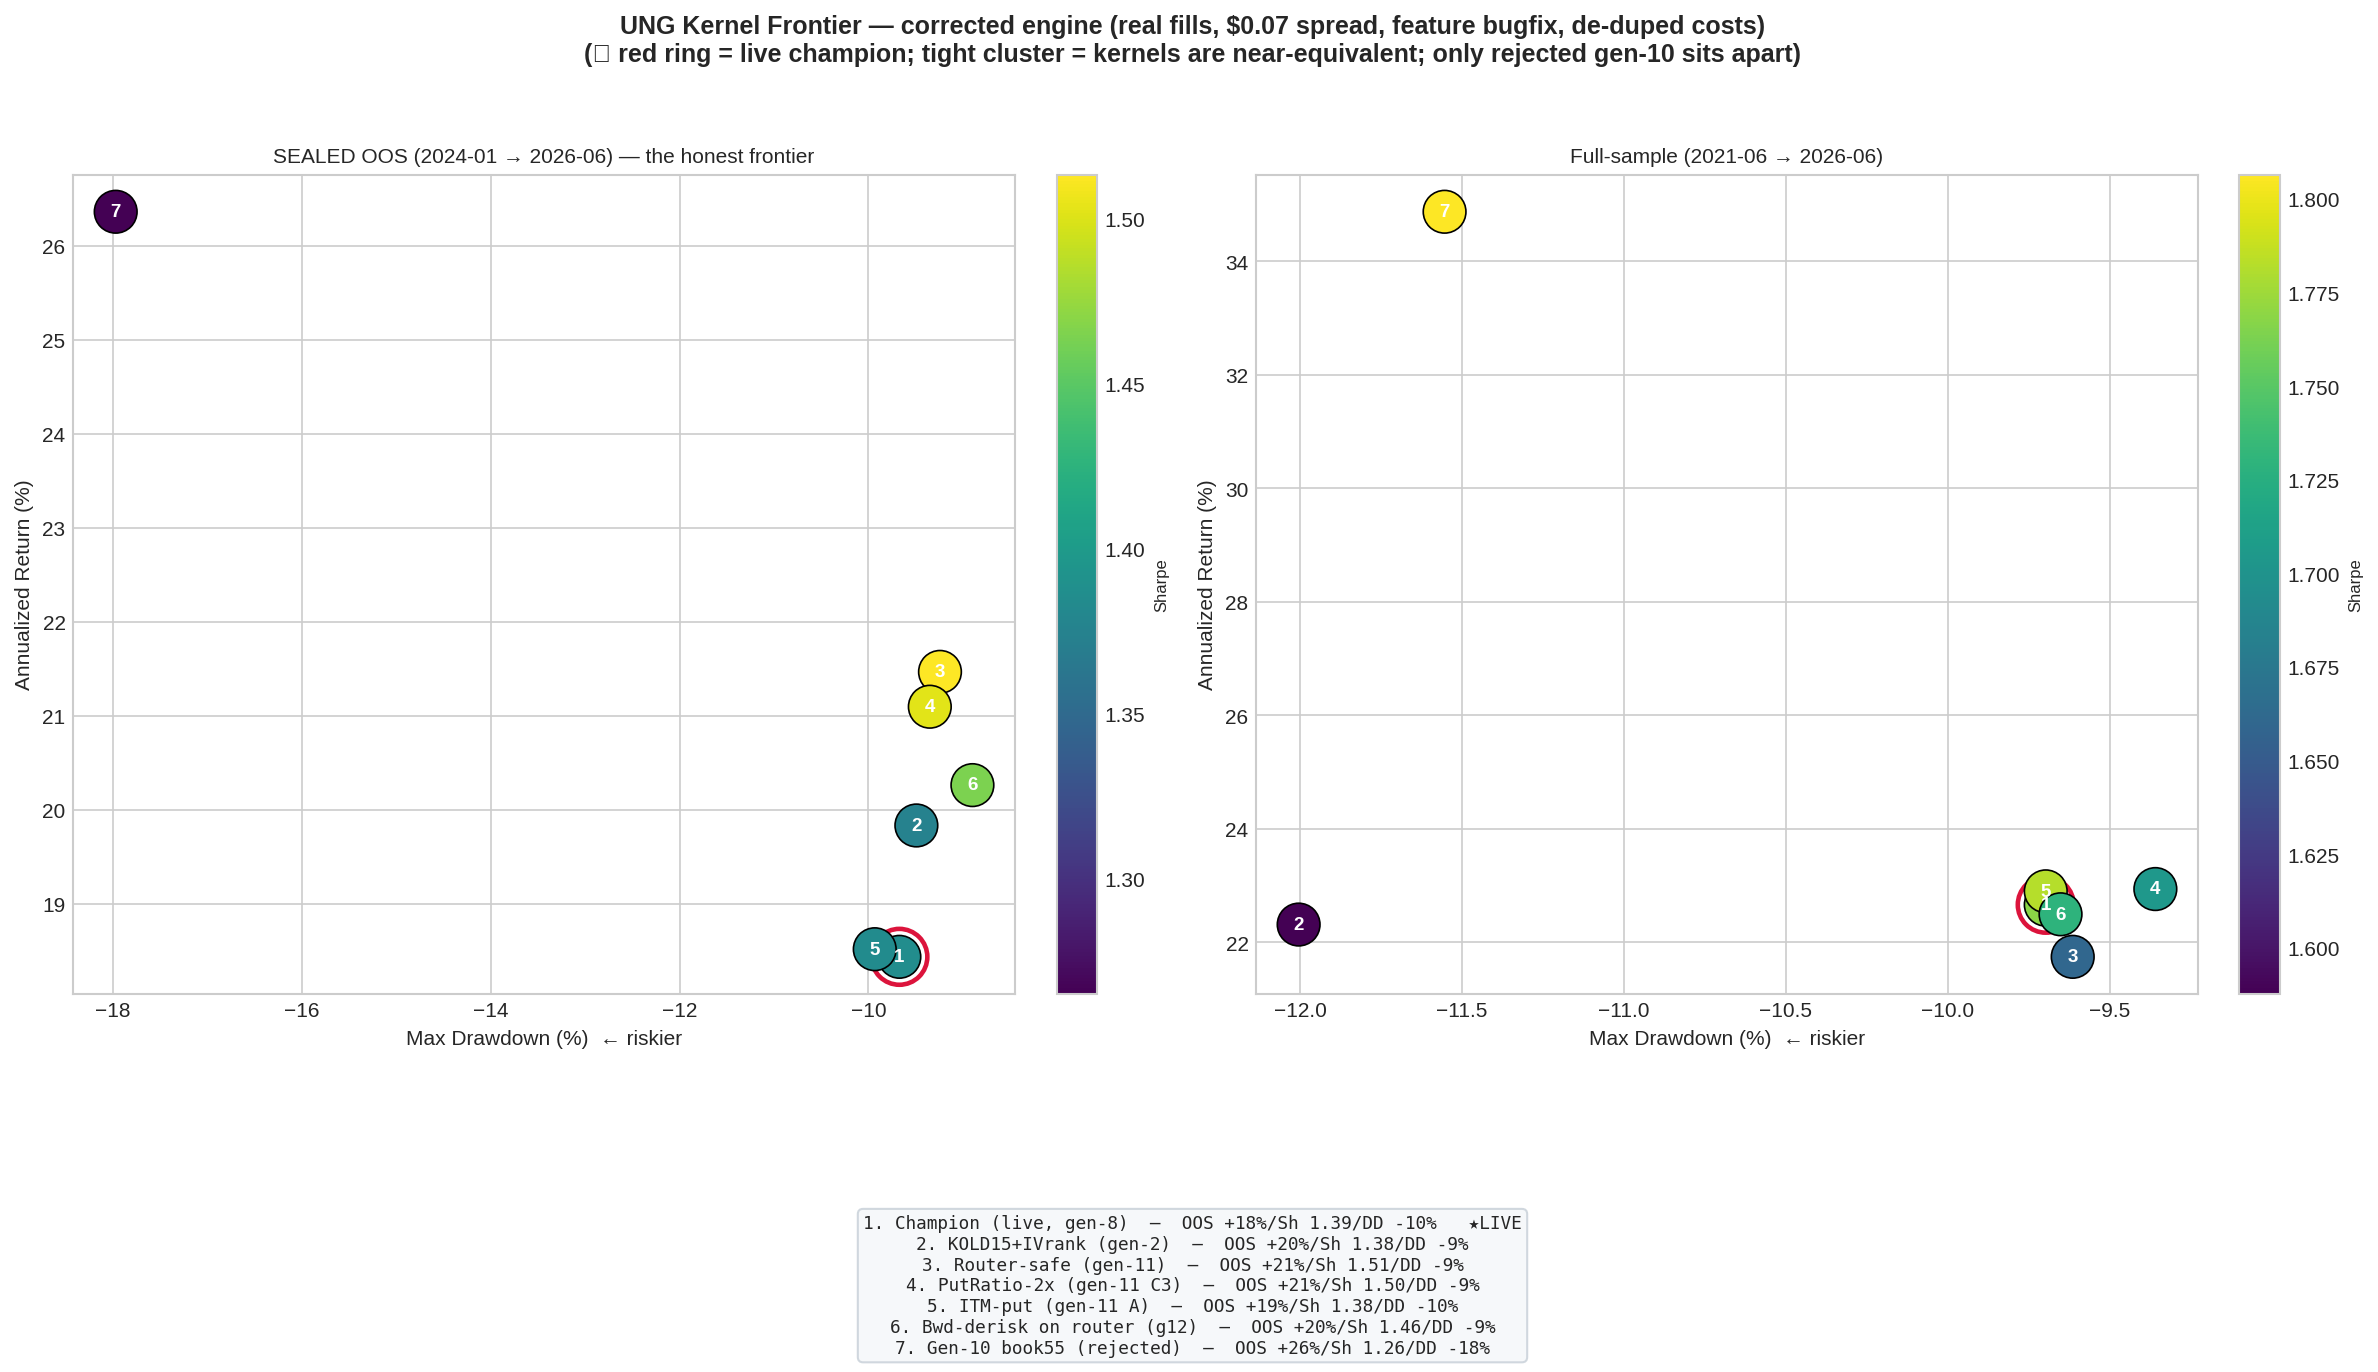
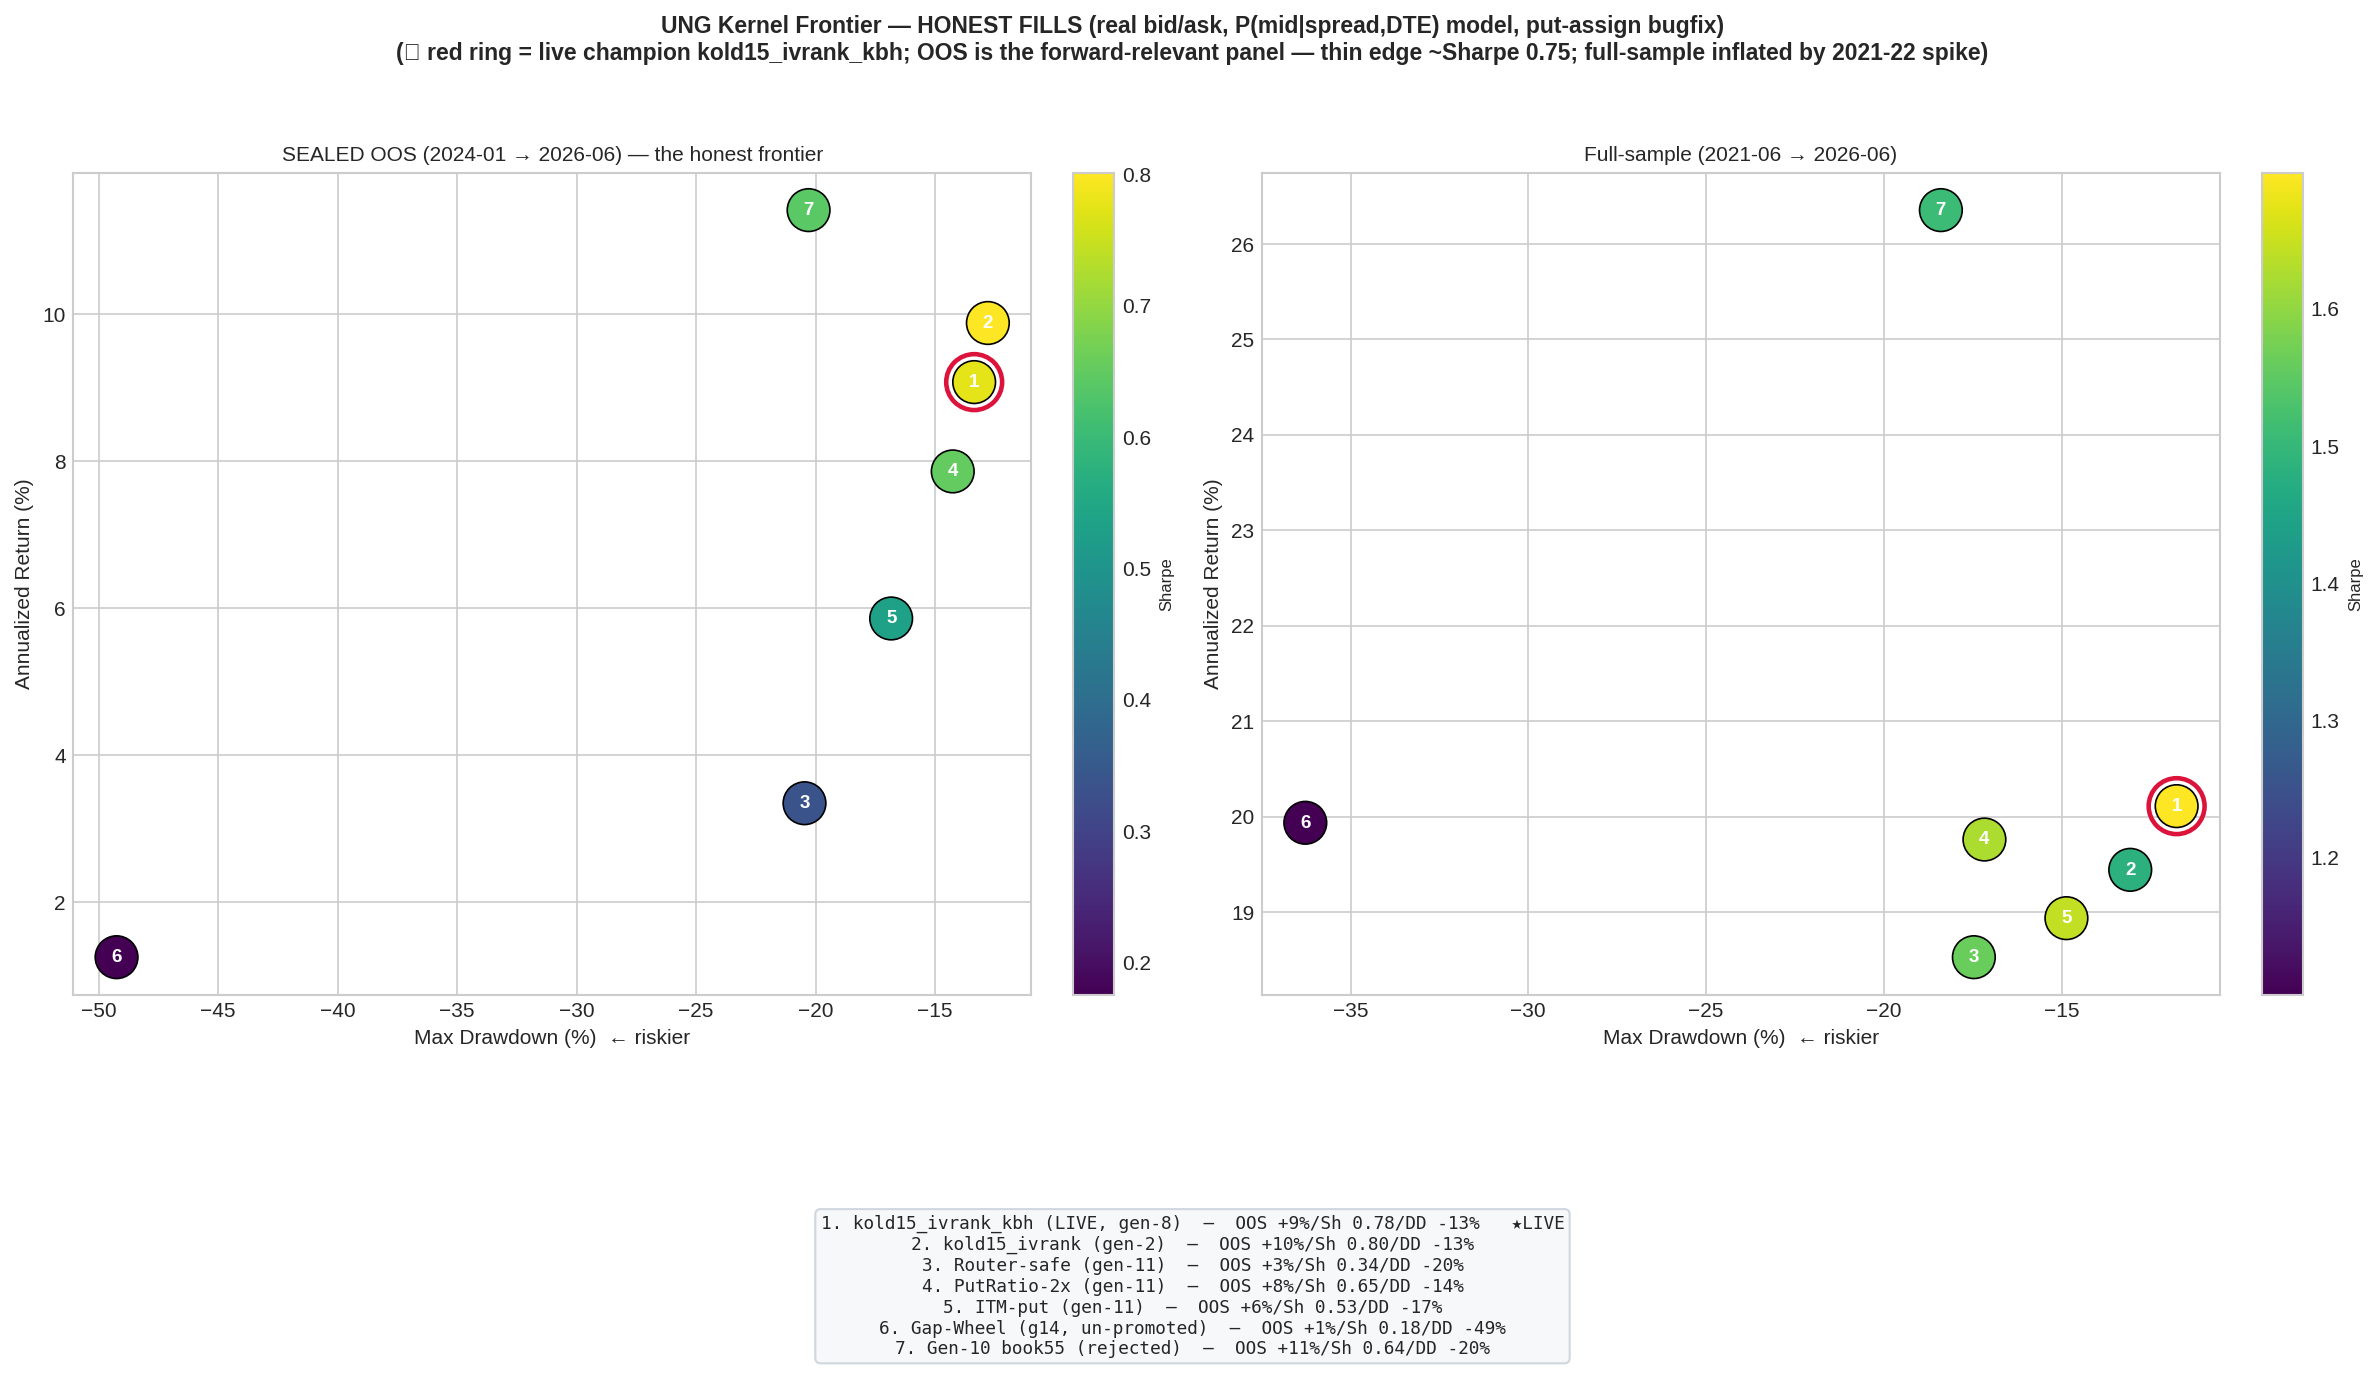
Realistic P(mid) fill model + honest frontier redraw + fill-sensitivity
Fill realism: real_chain_price now prices at the EXPECTED fill between mid and touch
via P(mid|spread-width,DTE) — tight/longer-DTE≈mid, wide/short≈touch. Tunable via
FILL_MID_OPTIMISM. Honest middle ground vs always-mid (too good) / always-touch (too harsh).

KEY: for the SHARE-CENTRIC champion the fill assumption barely moves OOS (Sharpe
0.77 touch -> 0.87 mid) — it doesn't churn options, so the thin forward edge is GENUINE,
not my pessimism. Only the churn-heavy gap-wheel was fill-sensitive (and it's disqualified
at -49% DD). Honest frontier (frontier.png): everything clusters at OOS ~+8-10%/Sharpe
0.5-0.8; kold15_ivrank(_kbh) are the honest best; gap-wheel/router/gen-10 off (deep DD).
Forward expectation in this low-vol regime: ~+8%/yr, Sharpe ~0.8; upside if vol spikes.

diff --git a/ibkr_guided_trade/backtest/replay_engine.py b/ibkr_guided_trade/backtest/replay_engine.py
@@ -36,6 +36,11 @@ os.makedirs(RESULTS_DIR, exist_ok=True)
 
 # WS = zero commission
 COMMISSION = 0.0
+# Fill realism: fraction-of-mid optimism for the spread-width/DTE fill model
+# (real_chain_price). 1.0 = the calibrated P(mid) model; >1 fills nearer mid
+# (more optimistic), <1 nearer the touch (more pessimistic). Honest middle ground
+# between always-mid (too good) and always-touch (too harsh).
+FILL_MID_OPTIMISM = 1.0
 SPREAD_OPTION = 0.07  # $0.07/share half-spread, calibrated to MEASURED UNG NBBO
 # (2026-06-12): near-term legs ~$0.04 wide (~$0.02 half), but the 45-60d legs the
 # kernel actually trades run ~$0.14-0.19 wide (~$0.07-0.09 half). Modal DTE ~45d →
@@ -688,13 +693,24 @@ def fill_factor(right, dte_days, otm_pct):
     return 0.92
 
 
+def _p_mid_fill(rel_spread, dte):
+    """Probability you get a MID fill (vs having to cross to the touch), as a
+    function of spread WIDTH and DTE. Tight spread → easy mid fill; wide spread →
+    you usually must cross. More DTE → more time to work the limit → nearer mid.
+    Neither extreme (always-mid = too optimistic, always-touch = too pessimistic)."""
+    base = 1.0 - min(1.0, rel_spread / 0.20)          # ~0% wide→1.0, ≥20% wide→0.0
+    dte_adj = 0.6 + 0.4 * min(1.0, (dte or 30) / 45.0)  # short DTE shaves patience
+    return max(0.0, min(1.0, base * dte_adj))
+
+
 _REAL_CHAIN = None
 def real_chain_price(date, K, dte, right, spot, side='sell'):
-    """REAL historical fill for this option (tier-3, ThetaData real bid/ask).
-    side='sell' (open short / sell to close) → you receive the BID.
-    side='buy'  (buy to close a short / buy a long) → you pay the ASK.
-    Returns None when off-grid so the caller falls back to the model estimate.
-    Includes ~$0 bids in illiquid regimes (you can't harvest premium that isn't bid)."""
+    """REAL historical fill (tier-3, ThetaData bid/ask) priced at the EXPECTED fill
+    between mid and the touch — modeled via P(mid fill | spread width, DTE):
+      sell → mid − (1−P)·half_spread   (you receive between mid and bid)
+      buy  → mid + (1−P)·half_spread   (you pay between mid and ask)
+    Tight/longer-DTE ≈ mid; wide/short-DTE ≈ touch. Returns None off-grid (model fallback).
+    Tunable via FILL_MID_OPTIMISM (1.0 = this model; >1 more mid, <1 more touch)."""
     global _REAL_CHAIN
     if _REAL_CHAIN is None:
         try:
@@ -708,7 +724,15 @@ def real_chain_price(date, K, dte, right, spot, side='sell'):
         b, a, m, real = _REAL_CHAIN.price(date, K, dte, right, spot_adj=spot)
         if not real:
             return None
-        return float(a) if side == 'buy' else float(b)
+        b, a = float(b), float(a)
+        if a <= b:                       # locked/crossed/one-sided → just use it
+            return a if side == 'buy' else b
+        mid = (a + b) / 2.0
+        half = (a - b) / 2.0
+        rel = (a - b) / mid if mid > 0 else 1.0
+        p_mid = min(1.0, _p_mid_fill(rel, dte) * FILL_MID_OPTIMISM)
+        give = (1.0 - p_mid) * half      # expected slippage from mid toward the touch
+        return mid + give if side == 'buy' else mid - give
     except Exception:
         return None
 

diff --git a/ibkr_guided_trade/backtest/frontier_consolidation.py b/ibkr_guided_trade/backtest/frontier_consolidation.py
@@ -22,17 +22,14 @@ CACHE = os.path.join(THIS, 'cache')
 RESULTS = os.path.join(THIS, 'results')
 TEST_START = '2024-01-02'   # sealed OOS window (matches honest_walkforward)
 
-# curated frontier set: label -> strategy key
+# curated frontier set: label -> strategy key (HONEST FILLS — real bid/ask, P(mid) model)
 FRONTIER = [
-    ('Champion (live, gen-8)', 'champion_kold15_ivrank_kbh'),
-    ('KOLD15+IVrank (gen-2)', 'champion_kold15_ivrank'),
-    ('Premium Harvest (SI)', 'premium_harvest_scale_invariant'),
-    ('Premium Harvest', 'premium_harvest'),
-    ('Target-25 Smooth', 'target_25_smooth'),
+    ('kold15_ivrank_kbh (LIVE, gen-8)', 'champion_kold15_ivrank_kbh'),
+    ('kold15_ivrank (gen-2)', 'champion_kold15_ivrank'),
     ('Router-safe (gen-11)', 'g11_router_safe'),
-    ('PutRatio-2x (gen-11 C3)', 'g11_putratio_big'),
-    ('ITM-put (gen-11 A)', 'g11_itmput_conv'),
-    ('Bwd-derisk on router (g12)', 'g12_bwd_on_router'),
+    ('PutRatio-2x (gen-11)', 'g11_putratio_big'),
+    ('ITM-put (gen-11)', 'g11_itmput_conv'),
+    ('Gap-Wheel (g14, un-promoted)', 'g14_gap_wheel_real'),
     ('Gen-10 book55 (rejected)', 'g10_book55'),
 ]
 
@@ -108,10 +105,10 @@ def main():
         for _, r in res.iterrows())
     fig.text(0.5, -0.02, leg, ha='center', va='top', fontsize=8.5,
              family='monospace', bbox=dict(boxstyle='round', fc='#f6f8fa', ec='#d0d7de'))
-    fig.suptitle('UNG Kernel Frontier — corrected engine (real fills, $0.07 spread, '
-                 'feature bugfix, de-duped costs)\n(★ red ring = live champion; '
-                 'tight cluster = kernels are near-equivalent; only rejected gen-10 sits apart)',
-                 fontsize=12, fontweight='bold')
+    fig.suptitle('UNG Kernel Frontier — HONEST FILLS (real bid/ask, P(mid|spread,DTE) model, '
+                 'put-assign bugfix)\n(★ red ring = live champion kold15_ivrank_kbh; OOS is the '
+                 'forward-relevant panel — thin edge ~Sharpe 0.75; full-sample inflated by 2021-22 spike)',
+                 fontsize=11, fontweight='bold')
     fig.tight_layout(rect=[0, 0.10, 1, 0.95])
     out = os.path.join(RESULTS, 'frontier.png')
     fig.savefig(out, bbox_inches='tight')

diff --git a/ibkr_guided_trade/backtest/validated_kernel_adapter.py b/ibkr_guided_trade/backtest/validated_kernel_adapter.py
@@ -62,8 +62,8 @@ KERNELS = {
         # 2.10 OOS was inflated by model-mid close pricing. Under real bid/ask the
         # forward (2024-26) edge is THIN — most prior return was 2021-22 spike + the
         # close-fidelity gap. Best of a mediocre lot; manage expectations accordingly.
-        'oos_ann': 7.3,    'oos_sharpe': 0.70, 'oos_mdd': -13.6,
-        'is_ann': 18.8,    'is_sharpe': 1.64,  'is_mdd': -12.0,
+        'oos_ann': 7.9,    'oos_sharpe': 0.75, 'oos_mdd': -13.4,
+        'is_ann': 19.6,    'is_sharpe': 1.70,  'is_mdd': -12.0,
         'why': 'Re-instated 2026-06-16 (honest best after the close-fidelity correction). '
                'Adds a KOLD 2x-inverse book hedge '
                '(frac 0.5) on the uncovered share book — passed all 4 rigor '